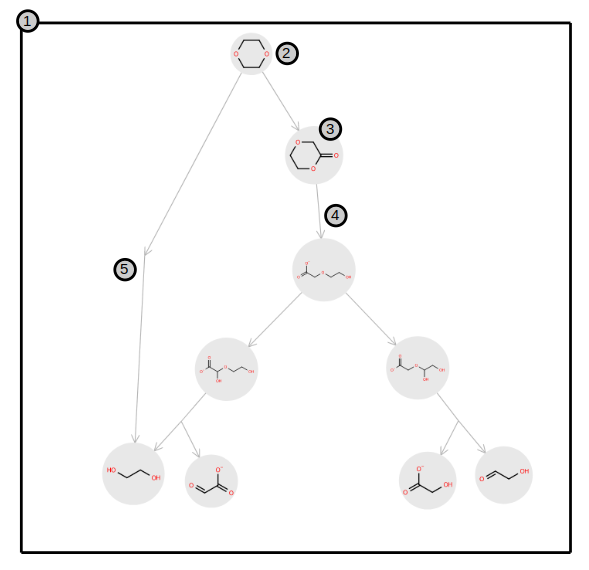
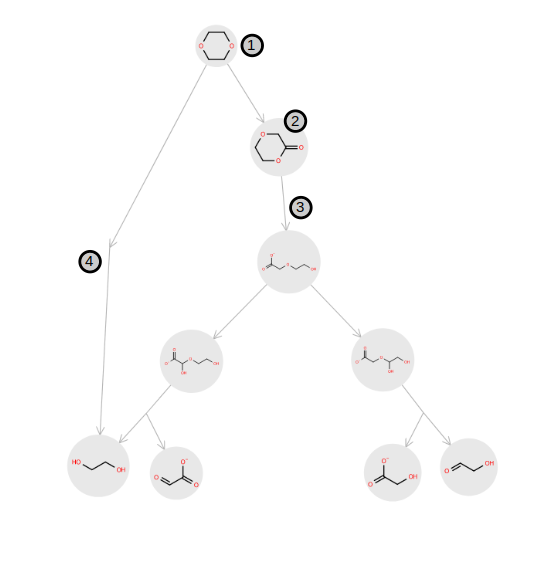
Added docs

diff --git a/docs/source/objects.rst b/docs/source/objects.rst
@@ -36,6 +36,8 @@ now the `(+)-Camphor` compound from EAWAG-BBD, we can do so as follows:
 
 Package
 -------
+.. seealso::
+    A more detailed explanation of Package can be found `here <https://wiki.envipath.com/doku.php?id=packages>`_
 
 .. currentmodule:: enviPath_python.objects
 
@@ -47,6 +49,8 @@ required to access the data, however on the second case it will be necessary to 
 
 Compound
 --------
+.. seealso::
+    A more detailed explanation of Compound can be found `here <https://wiki.envipath.com/doku.php?id=compounds>`_
 
 A :class:`Compound` is an enviPath object within a :ref:`Package` and essentially stores all the molecular information
 organized into :ref:`Compound Structure` objects. In other words, a Compound can be thought of as a container of Compound
@@ -72,6 +76,8 @@ i.e. the :ref:`Compound` which will be associated with.
 
 Reaction
 --------
+.. seealso::
+    A more detailed explanation of Reaction can be found `here <https://wiki.envipath.com/doku.php?id=reactions>`_
 
 A :class:`Reaction` is an enviPath object that represents a biotransformation reaction, it connects substrates with
 products, each of them represented as a :ref:`Compound Structure`. Usually reactions are
@@ -83,6 +89,8 @@ Additionally, Reaction objects are created automatically with
 
 Rule
 ----
+.. seealso::
+    A more detailed explanation of Rule can be found `here <https://wiki.envipath.com/doku.php?id=rules>`_
 
 A :class:`Rule` enviPath object represents a biotransformation rule and are used for the prediction of pathways. They do so by
 leveraging SMIRKS Reaction Patterns that identify functional groups and apply the rule whenever the reactant filter pattern
@@ -95,22 +103,27 @@ distinct non-abstract classes inherit from it and can therefore be instantiated.
 
 Pathway
 -------
+.. seealso::
+    A more detailed explanation of Pathway can be found `here <https://wiki.envipath.com/doku.php?id=pathways>`_
 
-A :class:`Pathway` is an enviPath object that represents a biodegradation pathway and stores the information of the compounds
-and reactions involved in :ref:`Node` and :ref:`Edge` objects, respectively. The names of the last two objects come from
-`Graph Theory <https://en.wikipedia.org/wiki/Graph_theory>`_ and one can realize that there is a direct connection between
-biodegradation pathways and `directed graphs <https://www.geeksforgeeks.org/what-is-directed-graph-directed-graph-meaning/>`_.
-Being enviPath a database for biodegradation data makes Pathway one of the most fundamental objects to know.
-Pathways can be generated manually by calling :meth:`Pathway.create` method, from there on
-one can add compounds (nodes) and reactions (edges) to it using :meth:`Pathway.add_node` and
+A :class:`Pathway` is an enviPath object that represents a biotransformation pathway and stores information of the compounds
+and reactions in :ref:`Node` and :ref:`Edge` objects, respectively. Nodes and Edges are concepts derived from
+`Graph Theory <https://en.wikipedia.org/wiki/Graph_theory>`_, where
+`directed graphs <https://www.geeksforgeeks.org/what-is-directed-graph-directed-graph-meaning/>`_ can be used
+to represent biotransformation pathways.
+Given that enviPath is a database for biotransformation data, Pathways are one of the most fundamental objects to understand.
+Pathways can be generated manually by calling the :meth:`Pathway.create` method, from there
+one can add compounds (nodes) and reactions (edges) using the :meth:`Pathway.add_node` and
 :meth:`Pathway.add_edge` methods, respectively. Below, we show how the
-`1,4-Dioxane Pathway <https://envipath.org/package/32de3cf4-e3e6-4168-956e-32fa5ddb0ce1/pathway/19a53ddd-7bbe-43b3-bd56-c1c35302d185>`_
-biodegradation pathway looks like in the website:
+`1,4-Dioxane <https://envipath.org/package/32de3cf4-e3e6-4168-956e-32fa5ddb0ce1/pathway/19a53ddd-7bbe-43b3-bd56-c1c35302d185>`_
+biotransformation pathway looks like in the website:
 
 .. image:: assets/eP_pathway_example.png
    :alt: Example of an enviPath pathway
 
-A Pathway encompasses everything within the box labelled as 1.
+The image above is a visualization of the information included in a Pathway object. One can have access
+to all the compounds (nodes) in the pathway by calling :meth:`Pathway.get_nodes`, analogously one can do the same
+for reactions (edges) with :meth:`Pathway.get_edges`.
 
 Pathways can also be predicted by invoking the method
 :meth:`Package.predict`, which will use the provided
@@ -121,36 +134,45 @@ Node
 ~~~~
 
 The :class:`Node` enviPath object represents a :ref:`Compound Structure` on a :ref:`Pathway`. In the previous image, both
-2 and 3 would be examples of nodes. The difference among them, is that 2 does not have any incoming edge, for this reason
-the node 2 can also be named as `root node`. Nodes also stored the property ``depth``, this is a feature that informs
-how deep down on the pathway the node is located. Hence, the root node have a defined ``depth=0`` and the node labelled
-as 3 on the image would have a ``depth=1``. This attribute is useful to navigate through the pathway and can be accessed
+compounds labelled 1 and 2 are examples of nodes. The difference between them is that 1 does not have an incoming edge and
+for this reason, node 1 is named the `root node`. Nodes also store the property ``depth``, this is a feature that informs
+the depth of the node on the pathway. Hence, the root node have a defined ``depth=0`` and the node labelled
+as 2 on the image would have a ``depth=1``. This attribute is useful to navigate through the pathway and can be accessed
 with the method :meth:`Node.get_depth`
 
 Edge
 ~~~~
 
-The :class:`Edge` enviPath object represents a :ref:`Reaction` on a :ref:`Pathway`, which can be accessed through the
-:meth:`Edge.get_reaction` method. In the previous image, edges lablled as 4 and 5 are examples of pathway edges. The
-difference between them is that edge 4 represents a `Simple Reaction` while 5 represents a `Multistep Reaction`.
+The :class:`Edge` enviPath object represents a :ref:`Reaction` on a :ref:`Pathway` and can be accessed through the
+:meth:`Edge.get_reaction` method. In the previous image, edges labelled as 3 and 4 are examples of pathway edges. The
+difference between them is that edge 3 represents a `Simple Reaction` while 4 represents a `Multistep Reaction`. On
+enviPath we visualize a reaction as Multistep Reaction when we want to indicate that a compound got mineralized or
+when the intermediates of a reaction are unknown.
 Additionally, its corresponding substrates and products can be accessed using :meth:`Edge.get_start_nodes` and
 :meth:`Edge.get_end_nodes` methods, respectively.
 
 Relative Reasoning
 ------------------
+.. seealso::
+    A more detailed explanation of Relative Reasoning can be found `here <https://wiki.envipath.com/doku.php?id=relative_reasoning>`_
 
 A :class:`RelativeReasoning` enviPath object can be understood as the model that is used to generate pathway predictions. This
 is a relevant object for users wanting to generate predictions using the models stored in our database.
-This can be achieved for example with the method :meth:`RelativeReasoning.classify_smiles`, providing a valid SMILES to it.
+This can be achieved with the method :meth:`RelativeReasoning.classify_smiles`, given that a valid SMILES is provided.
 This method will return a list with of expected products without storing them on the database, leading to reduced
 computation time.
 
 Scenario
 --------
+.. seealso::
+    A more detailed explanation of Scenario can be found `here <https://wiki.envipath.com/doku.php?id=scenarios>`_
 
-A :class:`Scenario` enviPath object represents the experimental conditions that were used for a given biodegradation pathway.
+A :class:`Scenario` enviPath object represents the experimental conditions that were used for a given biotransformation pathway.
 Ideally it links to a reference article where the given experiment is thoroughly described. A Scenario can be attached
-to **any** other enviPath object.
+to **any** other enviPath object. On many papers, different experimental conditions are tested but some parameters are
+shared across them. In order to ease inputting those types of scenarios, the concept of `Related Scenario` was developed.
+A Related Scenario is a Scenario that points to another Scenario from which data will be copied. This can be seen in
+more detail on the :ref:`Creating packages<create_package>` tutorial.
 
 Additional Information
 ~~~~~~~~~~~~~~~~~~~~~~

diff --git a/docs/source/getting_started.rst b/docs/source/getting_started.rst
@@ -1,10 +1,10 @@
 Getting Started
 ===============
 
-The documentation of enviPath-python assumes some prior knowledge of python. However. this documentation has been
-divided in 2 modules, Users and Developers Guide, to facilitate the access to both python new comers and experts.
+The documentation of enviPath-python assumes some prior knowledge of python. To facilitate access to both novice and expert
+users of python, it is presented in two modules, specifically User and Developers Guide.
 
-To start using enviPath-python, please follow the steps describe on :ref:`installation`. Afterwards, feel free to explore
+To start using enviPath-python, please follow the steps described on :ref:`installation`. Afterwards, feel free to explore
 the :ref:`objects <objects>` that are used on enviPath. If you want to have a more detailed explanation on how those
-objects work in practice, we invite you to check the tutorials available on **User Guide** on the navigation bar. For a more
-in depth, technical knowledge feel free to check the :ref:`developers guide <package documentation>`.
+objects work in practice, we invite you to read the tutorials available on **User Guide** on the navigation bar. For more
+in depth, technical knowledge feel free to explore the :ref:`Developers Guide <package documentation>`.
